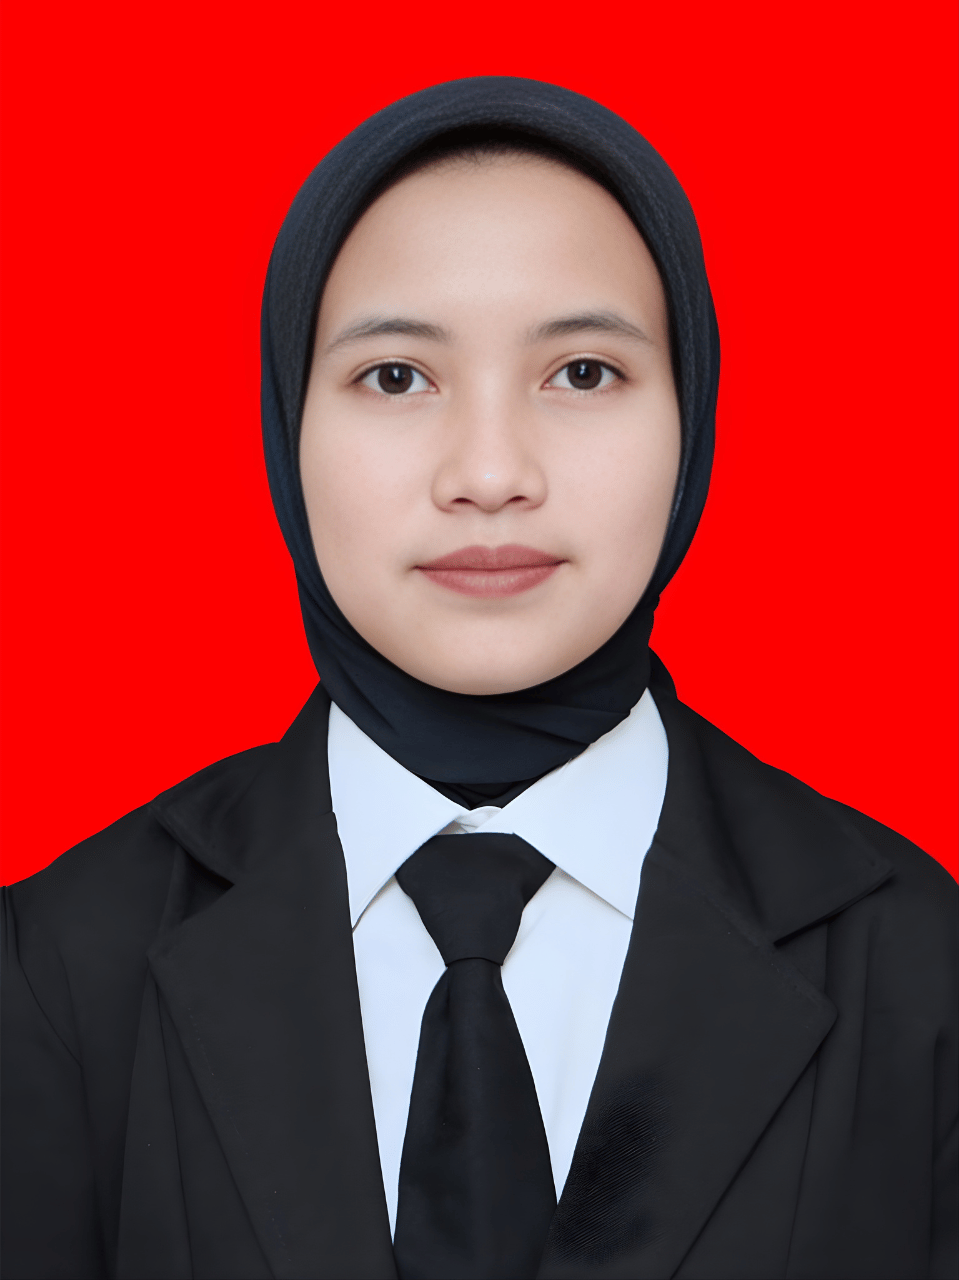
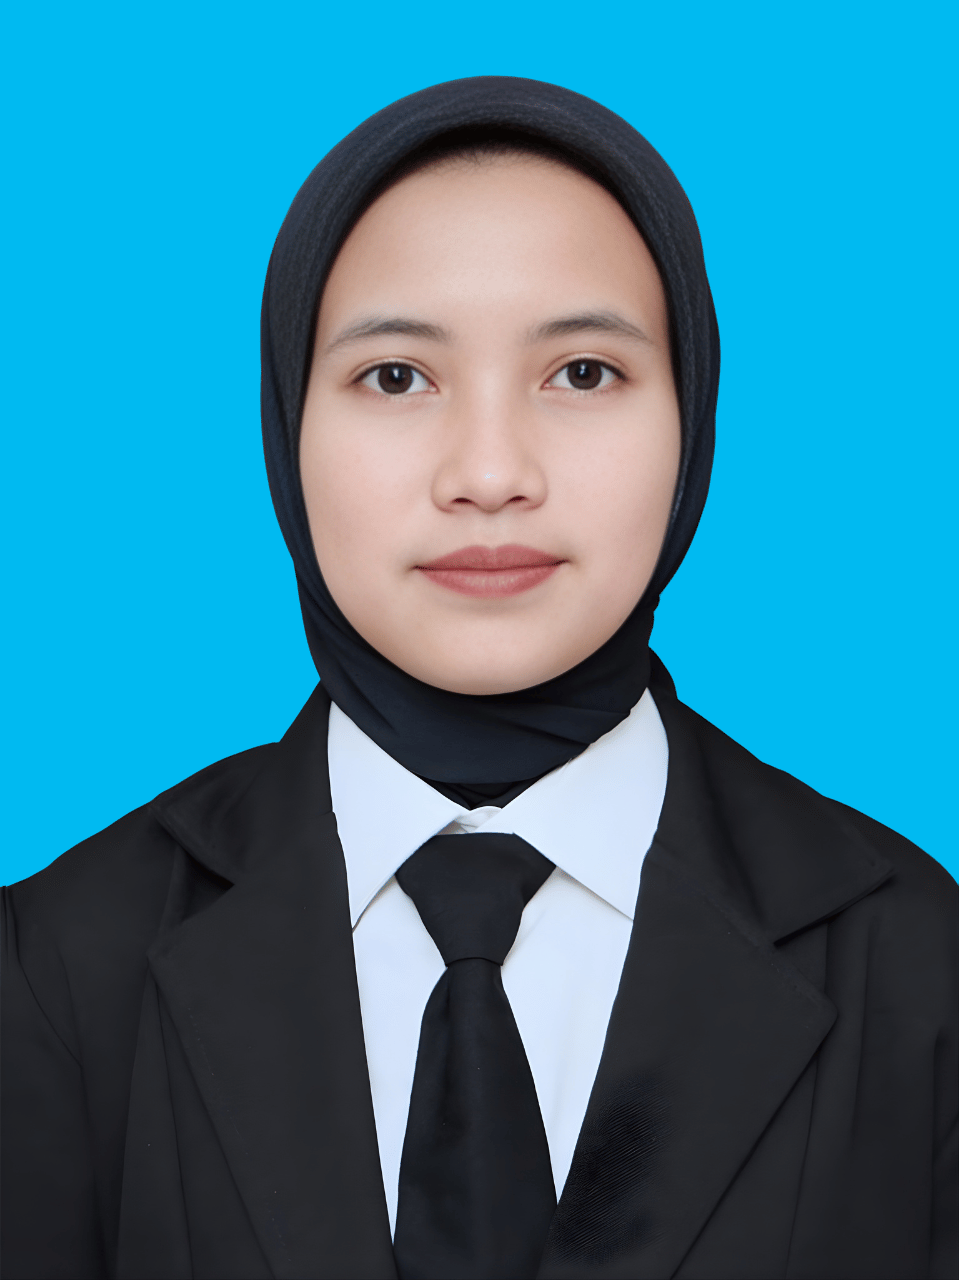
Mengganti gambar struktur dengan bg biru

diff --git a/index.html b/index.html
@@ -189,7 +189,7 @@
         <h2 class="my-5 text-start fw-bold fs-1">Struktur</h2>
 
         <!-- Container Teacher -Teacher -->
-        <div class="row d-flex justify-content-between">
+        <div class="row d-flex justify-content-between mb-xxl-5">
           <!-- Pemilik Tk-->
           <div class="col-auto m-auto mt-5 mt-md-0">
             <div class="card" style="width: 18rem">
@@ -246,7 +246,7 @@
           </div>
 
           <!-- Teacher 1 -->
-          <div class="col-auto m-auto my-5 my-lg-0 mt-lg-5 mt-xxl-0">
+          <div class="col-auto m-auto my-5 my-xxl-0 ">
             <div class="card" style="width: 18rem">
               <img
                 src="src/struktur/bu-lisna.png"
